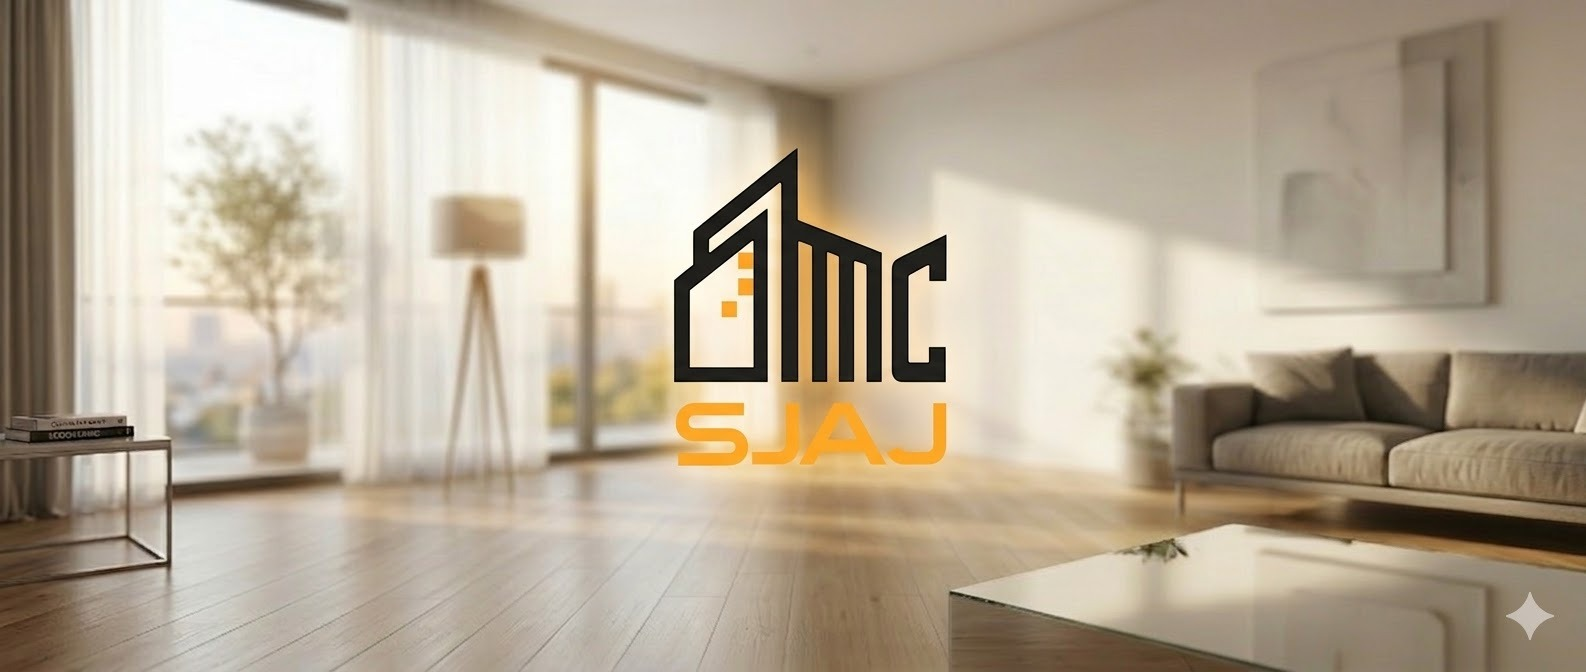
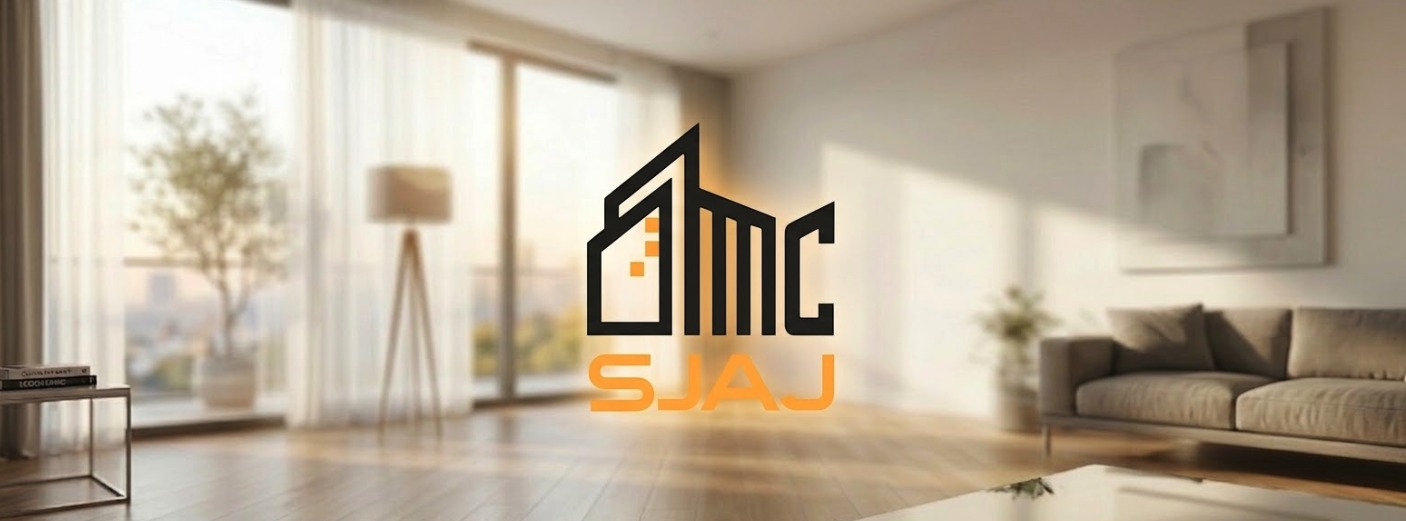
Update hero image from supplied asset

diff --git a/index.html b/index.html
@@ -22,7 +22,7 @@
     <main>
       <section class="hero-section">
         <div class="hero-backdrop">
-          <img class="hero-poster-image" src="assets/hero-ms-sjaj-soft.jpg?v=20260321f" alt="MS Sjaj logo na mekoj fotografiji enterijera">
+          <img class="hero-poster-image" src="assets/hero-ms-sjaj-soft.jpg?v=20260321g" alt="MS Sjaj logo na mekoj fotografiji enterijera">
         </div>
       </section>
 
